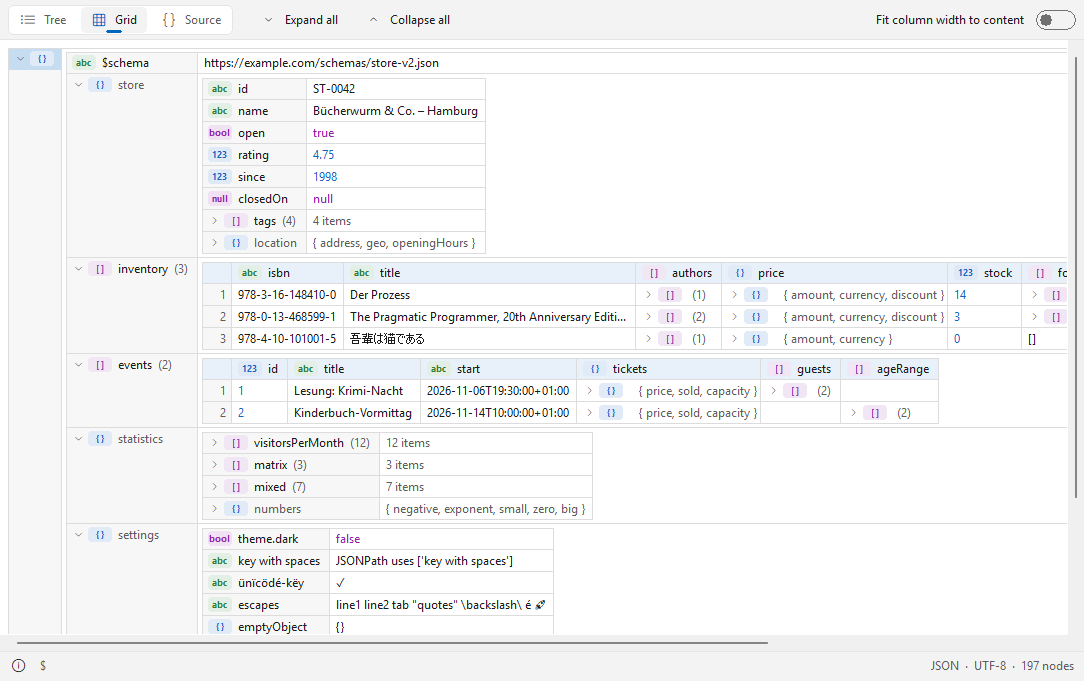
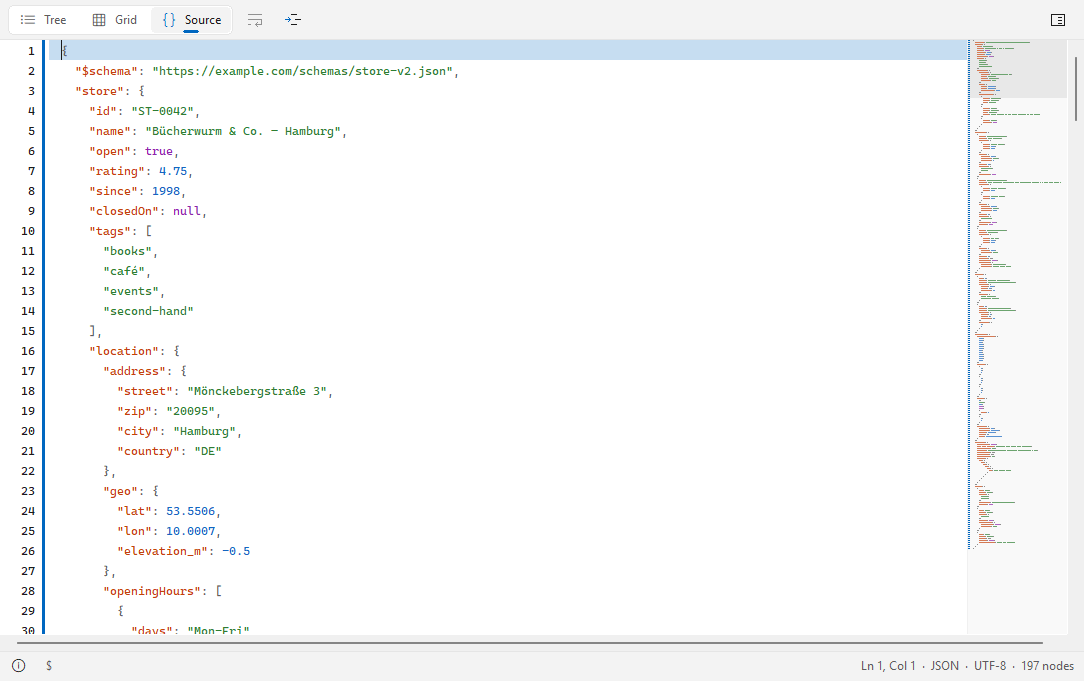
TreeView 1.8.0: screenshot with minimap

diff --git a/README.de.md b/README.de.md
@@ -6,7 +6,7 @@ Ein XML-, JSON- und YAML-Betrachter (Lister-Plugin) für den [Total Commander](h
 F3 auf einer Datendatei zeigt sie in drei Ansichten: als Baum (wie XML Notepad), als verschachteltes Raster (wie XMLSpy) und als formatierten, farbigen Quelltext.
 Große Dateien öffnen sich schnell, fehlerhafte Dateien zeigen trotzdem alles bis zum Fehler. Nativ, keine Laufzeitumgebung, nichts zu installieren außer dem Plugin.
 
-![TreeView zeigt eine JSON-Datei in der Rasteransicht](docs/screenshot.de.png)
+![TreeView zeigt eine JSON-Datei in der Quelltext-Ansicht mit Minimap](docs/screenshot.de.png)
 
 ## Unterstützte Dateien
 

diff --git a/README.md b/README.md
@@ -6,7 +6,7 @@ An XML, JSON and YAML viewer (Lister plugin) for [Total Commander](https://www.g
 Press F3 on a data file and see it in three views: as a tree (like XML Notepad), as a nested grid (like XMLSpy) and as formatted, coloured source code.
 Large files open quickly, broken files still show everything up to the error. Native, no runtime, nothing to install besides the plugin.
 
-![TreeView showing a JSON file in the grid view](docs/screenshot.png)
+![TreeView showing a JSON file in the source view with the minimap](docs/screenshot.png)
 
 ## Supported files
 
